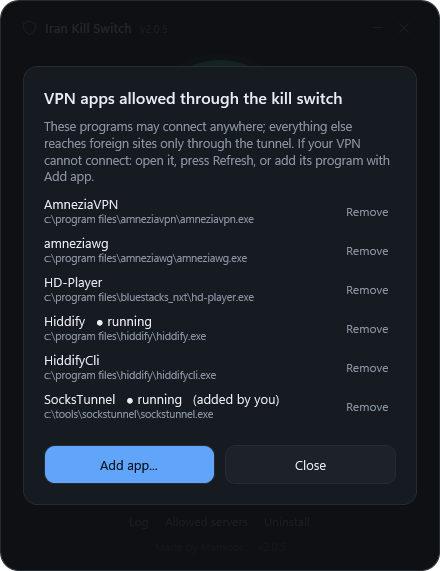
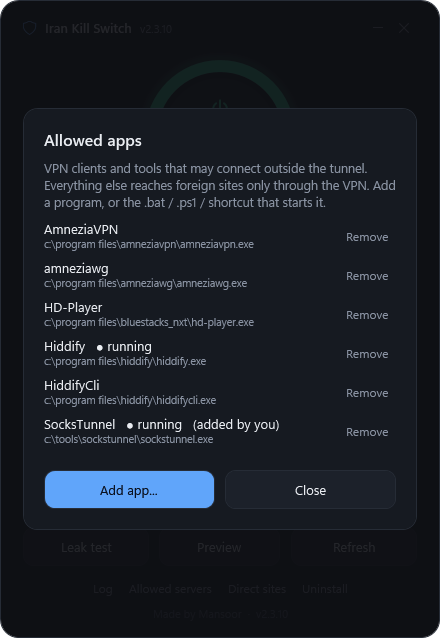
Docs, changelog, CI and repo hygiene for 2.3.10
- CHANGELOG.md (2.3.10 in Added / Changed / Fixed / Security form).
- README (en/fa), docs/usage.md, AGENTS.md updated for ping cards,
  allowed apps (scripts, private PowerShell launcher), auto-keep, evidence-
  based VPN name, UDP through tunnels; screenshots re-rendered.
- GitHub Actions: offline test suite + installer build on windows-latest,
  installer uploaded as an artifact; Tests badge in the README.
- Removed a personal chat shortcut (.url) from the repo; .gitignore now
  covers *.url, *.lnk and local upgrade notes.

diff --git a/AGENTS.md b/AGENTS.md
@@ -7,7 +7,7 @@ Read this file only; open a module when the task needs it. User docs: README.md,
 ## Mechanism (one screen)
 - **Filters**: native WFP (`app/native/IksNative.cs`), own provider+sublayer (fixed GUIDs, weight 0xFFFE), persistent, ONE transaction.
   Layers ALE_AUTH_CONNECT + ALE_AUTH_RECV_ACCEPT, v4+v6. Weights: w15 loopback | w14 each VPN app (ALE_APP_ID) |
-  w13 tunnel if-types 53/23/131 + learned TAP IPs | w12 remote ranges: Iran + LAN/special + allowed servers + direct sites | w1 block.
+  w13 tunnel if-types 53/23/131 + learned local IPs of EVERY tunnel adapter (unconnected UDP is classified before the interface is known) | w12 remote ranges: Iran + LAN/special + allowed servers + direct sites | w1 block.
   Our block beats every Windows Firewall allow rule. Windows Firewall is never touched.
 - **Routes** (TUN VPNs): IP Helper adds Iran CIDRs (~1750) + direct-site CIDRs via the physical gateway, active store only.
 - **Direct sites** (`state\direct-sites.txt`, domain/IP/CIDR/URL): resolved (parallel, 4 s, cache 7 days in `DirectCache`) -> w12 + routes,
@@ -15,8 +15,15 @@ Read this file only; open a module when the task needs it. User docs: README.md,
   HKCU `ProxyOverride` (ours remembered in `HKCU:\Software\IranKillSwitch\ProxyBypass`); re-applied on ON/OFF, Refresh, list save, hourly.
   Per-app bypass in TUN mode is impossible without a kernel callout driver.
 - **Guard**: task `IKS-Guard` (SYSTEM; boot, 5 min, network event) -> `Invoke-IKSSync`: list (7 days), apps, servers, direct sites, filters, routes.
-- **Safety**: Enable arms `IKS-AutoRevert` (+120 s) BEFORE filters; re-armed after the GUI checks (`Reset-IKSRevertTimer`); user confirms -> cancelled.
-- **VPN modes** (Get-IKSStatus.VpnMode): `tun` (adapter up) | `proxy` (local proxy listening; `SystemProxy` = Windows proxy set) | none.
+- **Safety**: Enable arms `IKS-AutoRevert` (+120 s) BEFORE filters. GUI self-test passes + Iran reachable (`Test-IKSAutoKeep`) -> `Confirm-IKSKeep -Auto`;
+  otherwise re-armed (`Reset-IKSRevertTimer`) and the user confirms or it is undone.
+- **VPN modes** (Get-IKSStatus.VpnMode): `tun` (adapter up) | `proxy` (local proxy listening; Windows proxy port wins; `SystemProxy` = Windows proxy set) | none.
+  `VpnClient` = evidence only (`Get-IKSActiveVpnClient`: TCP to foreign over the real NIC / proxy port owner -> top non-Windows ancestor), else ''.
+- **Allowed apps**: auto | user | child (child = started by an allowed app, kept only while running). Never under %SystemRoot% (dropped if saved).
+  `Add-IKSVpnApp` takes .exe/.bat/.cmd/.ps1/.lnk: `Get-IKSScriptPrograms` follows launchers to the .exe they start; pure-PowerShell tools ->
+  `New-IKSScriptLauncher` = private powershell.exe copy in `state\launchers` + desktop shortcut.
+- **Ping** (GUI, 3 s while visible): `Get-IKSLatency` = warm round trip inside the tunnel (CONNECT via proxy, or TCP via TUN; second HEAD on
+  an open connection, because sing-tun/sing-box fake the handshake/CONNECT) + TCP handshake to an Iranian site.
   Hiddify "Proxy" mode with Windows proxy OFF -> browsers go direct -> blocked (test 9 explains it).
 
 ## Files
@@ -35,10 +42,10 @@ app/modules/Config       $script:IKS (catalog, VendorRegex, weights, URLs, paths
            Protect       Set/Remove-IKSFilters, Get-IKSRouteCidrs (pure), Sync/Remove-IKSIranRoutes, Remove-IKSLegacy (v1)
            Tasks         IKS-Guard, IKS-AutoRevert
            Actions       Enable/Disable/Confirm-IKSKeep, Reset-IKSRevertTimer, Invoke-IKSSync, Get-IKSStatus, Get-IKSUpdateInfo (GitHub), app add/remove
-           Diagnostics   Resolve-IKSIPv4Many, Invoke-IKSTest (sockets bound to the real NIC = "VPN down" simulation)
+           Diagnostics   Resolve-IKSIPv4Many, Invoke-IKSTest (sockets bound to the real NIC = "VPN down" simulation), STUN parser, Get-IKSLatency
            Setup         requirements, install/update (keeps state\), uninstall (+ delayed folder removal)
 installer/SetupApp.cs    setup exe (WinForms); Build-Setup.ps1 = tests -> payload.zip -> dist\IranKillSwitch-Setup-<ver>.exe (+ optional signing)
-tests/Run-Tests.ps1      offline suite (~88 checks); -WfpLive = real filters in a DYNAMIC session (admin, protection OFF)
+tests/Run-Tests.ps1      offline suite (~120 checks); -WfpLive = real filters in a DYNAMIC session (admin, protection OFF)
 ```
 Installed: `C:\Program Files\IranKillSwitch`; `state\` = settings.json, iks.log, routes.txt, allowed-servers.txt, direct-sites.txt.
 
@@ -57,7 +64,8 @@ Installed: `C:\Program Files\IranKillSwitch`; `state\` = settings.json, iks.log,
 - Functions return lists with `return , $list`. Never wrap the call in `@(...)` or `[string[]]@(...)`: it becomes ONE item
   (this broke routes in 2.2.0 and proxy bypass in 2.3.0). Use the result directly or `.ToArray()`.
 - Every state change via `Invoke-IKSLocked`; `Enabled=false` saved BEFORE removal; revert task armed BEFORE filters.
-- Never auto-allow anything under %SystemRoot%; never whitelist the real NIC address as a tunnel.
+- Never allow anything under %SystemRoot%, not even on user request (every script would bypass); never whitelist the real NIC address as a tunnel.
+- Status shows only what is proven (VPN name, ping): no evidence -> no value, never a guess.
 - Read-only actions (Preview/Status/Test) never save settings or touch WFP. Not admin -> filter count/tasks "unknown", not "missing".
 - GUI work that can block -> Start-Job2 (runspace, dot-sources IKS.ps1). UI thread only for cheap calls (<10 ms).
 - The ring (RingBtn) is the only on/off control. Glow ellipse has its own 180 px box (never negative margins: WPF clips).
@@ -66,7 +74,7 @@ Installed: `C:\Program Files\IranKillSwitch`; `state\` = settings.json, iks.log,
 ```
 powershell -ExecutionPolicy Bypass -File tests\Run-Tests.ps1 [-WfpLive]     # after every change
 powershell -ExecutionPolicy Bypass -File Build-Setup.ps1                     # [-CertThumbprint x | -CertPfx f]
-$env:IKS_GUI_SELFTEST='x.png'; powershell -File app\IKS.Gui.ps1              # render GUI to PNG, no admin (VIEW=main|apps|tests)
+$env:IKS_GUI_SELFTEST='x.png'; powershell -File app\IKS.Gui.ps1              # render GUI to PNG, no admin (VIEW=main|apps|tests; IKS_GUI_SELFTEST_PING=1 = real ping)
 ```
 Release: GitHub saateon/iran-kill-switch, tag `v<VERSION>`, asset `IranKillSwitch-Setup-<VERSION>.exe` (the app's update check reads it).
 

diff --git a/README.md b/README.md
@@ -10,6 +10,7 @@ If the VPN drops, foreign traffic is blocked, never leaked.
 
 [![Download](https://img.shields.io/github/v/release/saateon/iran-kill-switch?label=Download&style=for-the-badge&color=34D399)](https://github.com/saateon/iran-kill-switch/releases/latest)
 
+[![Tests](https://github.com/saateon/iran-kill-switch/actions/workflows/tests.yml/badge.svg)](https://github.com/saateon/iran-kill-switch/actions/workflows/tests.yml)
 ![Windows 10/11](https://img.shields.io/badge/Windows-10%20%7C%2011-0078D6?logo=windows)
 ![PowerShell 5.1](https://img.shields.io/badge/PowerShell-5.1-5391FE?logo=powershell&logoColor=white)
 ![C#](https://img.shields.io/badge/C%23-.NET%20Framework-512BD4?logo=dotnet)
@@ -33,25 +34,29 @@ Iranian sites fast and direct.
 
 - **Works with any VPN, without touching its settings**: Hiddify, v2rayN, Clash, sing-box,
   AmneziaVPN, AmneziaWG, WireGuard, OpenVPN, SSH tunnels (MobaXterm), BlueStacks and more.
-  VPN programs are detected automatically; helpers they start are allowed too.
+  VPN programs are detected automatically; helpers they start are allowed while they run.
+  Tools started by a `.bat`, `.cmd`, `.ps1` or shortcut can be added too: the programs they start are allowed,
+  and a pure-PowerShell tool gets its own private PowerShell copy. Windows' own programs are never allowed.
 - **Real kill switch**: native Windows Filtering Platform filters, active from boot,
   before any VPN starts. Block rules win over every Windows Firewall allow rule.
 - **Iran direct**: about 1,600 Iranian IPv4 ranges (RIPE NCC + ipdeny, auto-updated) stay
   outside the VPN. For TUN-mode VPNs the tool adds direct routes, so no VPN config is needed.
 - **Direct sites**: your own list of foreign sites (domain, IP, CIDR or URL) that skip the VPN.
   Works in TUN mode (routes) and in System Proxy mode (Windows "no proxy" list, re-applied if the VPN app removes it).
-- **No leaks**: DNS, WebRTC (STUN) and IPv6 are covered. Built-in leak test.
-- **Safe by design**: every change is applied in one transaction; turning on auto-undoes
-  itself in 2 minutes unless you confirm; Emergency OFF and full uninstall restore everything.
+- **No leaks**: DNS, WebRTC (STUN) and IPv6 are covered, also through wintun / sing-tun tunnels. Built-in leak test.
+- **Live ping**: two cards show the round trip inside the VPN tunnel and straight to Iran, measured the way VPN clients do.
+- **Honest status**: the VPN row names the client that really carries the traffic (found from its connections), or no name at all.
+- **Safe by design**: every change is applied in one transaction; after turning on, a self-test runs and
+  protection is kept only if it passes (otherwise you are asked, and it undoes itself in 2 minutes); Emergency OFF and full uninstall restore everything.
   Windows Firewall settings are never changed.
 - **Self-managing**: a background guard repairs filters, refreshes the Iran list and finds
   new VPN programs.
 - **Update check**: the footer shows when a newer release is on GitHub.
-- **Zero dependencies**: only what ships with Windows 10/11. One 80 KB installer.
+- **Zero dependencies**: only what ships with Windows 10/11. One ~90 KB installer.
 
 ## Screenshots
 
-| Main window | VPN apps | Leak test |
+| Main window | Allowed apps | Leak test |
 |:---:|:---:|:---:|
 | <img src="docs/images/main.png" width="260"> | <img src="docs/images/apps.png" width="260"> | <img src="docs/images/tests.png" width="260"> |
 
@@ -71,11 +76,11 @@ the Windows admin prompt. Run a newer setup to update; your settings are kept.
 ## Quick start
 
 1. Open **Iran Kill Switch** from the desktop or Start menu.
-2. Click the **big ring** to turn protection on. A short leak test runs.
-3. Press **Keep protection**. (Without it, everything is undone after 2 minutes.)
+2. Click the **big ring** to turn protection on. A short self-test runs.
+3. All checks pass: protection stays on. Something failed: you choose **Keep** or **Undo** (no answer = undone after 2 minutes).
 
 If your VPN cannot connect: open it, press **Refresh**, or add its program under
-**VPN apps -> Manage -> Add app**.
+**Allowed apps -> Manage -> Add app** (an `.exe`, or the `.bat` / `.ps1` / shortcut that starts it).
 
 ## Documentation
 
@@ -86,6 +91,7 @@ If your VPN cannot connect: open it, press **Refresh**, or add its program under
 | [How it works](docs/how-it-works.md) | WFP filter model, routes, guard, safety net |
 | [Build from source](docs/build.md) | project layout, tests, versioning, making the installer |
 | [FAQ and limits](docs/faq.md) | what is covered, what is not |
+| [Changelog](CHANGELOG.md) | what changed in each version |
 | [Agent brief](AGENTS.md) | compact technical summary for AI coding assistants |
 
 ## License

diff --git a/README.fa.md b/README.fa.md
@@ -16,14 +16,16 @@
 ## استفاده
 1. برنامه را از دسکتاپ یا منوی Start باز کنید.
 2. روی **حلقهی بزرگ** کلیک کنید (روشن/خاموش با همین حلقه است؛ با کیبورد: Tab و Enter).
-3. برنامه خودش تست میگیرد. اگر همهچیز درست بود، **Keep protection** را بزنید.
-   اگر ظرف ۲ دقیقه تأیید نکنید، همهچیز **خودکار برمیگردد**.
+3. برنامه خودش تست میگیرد. اگر همهٔ تستها پاس شوند، محافظت **خودکار روشن میماند**.
+   اگر تستی رد شود، میپرسد: **Keep protection** یا **Undo now**. اگر ظرف ۲ دقیقه جواب ندهید، همهچیز **خودکار برمیگردد**.
+- **پینگ:** دو کارت زیر حلقه: **VPN PING** (رفتوبرگشت داخل تونل VPN، همان عددی که کلاینت VPN نشان میدهد) و **DIRECT PING** (مستقیم تا یک سایت ایرانی). سبز زیر ۳۰۰، زرد زیر ۱۰۰۰ میلیثانیه، قرمز کندتر یا بدون جواب.
+- **ردیف VPN:** اسم کلاینتی که واقعاً ترافیک را میبرد (از روی اتصالهایش)، مثل `v2rayN · TUN`. اگر قابل اثبات نباشد، اسمی نشان داده نمیشود.
 - **حلقهی بزرگ** فقط وضعیت را نشان میدهد: سبز یعنی محافظت روشن، خاکستری یعنی خاموش.
 - **دکمهی X** برنامه را به کنار ساعت (System Tray) میبرد. محافظت حتی با بستن برنامه هم کار میکند.
 
 | بخش | کار |
 |---|---|
-| **VPN apps ← Manage** | دیدن، اضافه کردن (**Add app**) یا حذف برنامههای VPN |
+| **Allowed apps ← Manage** | دیدن، اضافه کردن (**Add app**) یا حذف برنامههایی که بیرون از تونل مجازند. میتوانید `exe`، یا `bat` / `cmd` / `ps1` / میانبری که آن را اجرا میکند انتخاب کنید |
 | **Iran direct (TUN)** | برای VPNهای حالت TUN: سایتهای ایرانی از اینترنت معمولی بروند |
 | **Leak test** | تست نشتی: ترافیک خارجی بدون VPN، DNS، WebRTC، IPv6 و سایتهای ایرانی |
 | **Preview** | نشان میدهد روشن کردن چه کاری میکند، بدون اعمال هیچ تغییری |
@@ -33,9 +35,12 @@
 
 **اگر VPN شما وصل نشد:**
 1. VPN را باز کنید و در برنامه **Refresh** بزنید.
-2. اگر باز هم وصل نشد: **Manage ← Add app** و فایل exe آن VPN را انتخاب کنید.
+2. اگر باز هم وصل نشد: **Manage ← Add app** و فایل exe آن VPN، یا فایل bat/ps1 که آن را اجرا میکند، را انتخاب کنید.
 
-برنامههایی که یک VPN مجاز خودش اجرا کند (مثل `MobaRTE.exe` در MobaXterm) خودکار مجاز میشوند.
+- برنامههایی که یک برنامهٔ مجاز خودش اجرا کند (مثل `MobaRTE.exe` در MobaXterm) خودکار و فقط تا وقتی اجرا هستند مجاز میشوند.
+- برای فایل bat/ps1، برنامههایی که اجرا میکند مجاز میشوند (`xray_no_window.cmd` ← `xray.exe`). ابزاری که فقط با PowerShell نوشته شده یک نسخهٔ اختصاصی PowerShell و میانبر *Name (Kill Switch)* روی دسکتاپ میگیرد؛ از همان میانبر اجرایش کنید.
+- برنامههای خود ویندوز (PowerShell، cmd، curl) هیچوقت مجاز نمیشوند، چون همهٔ اسکریپتها را آزاد میکنند.
+- **WebRTC آیپی نشان نمیدهد؟** حالت Proxy هرگز WebRTC (UDP) را عبور نمیدهد؛ VPN را روی حالت TUN / VPN بگذارید. در حالت TUN سرور VPN هم باید UDP را عبور دهد.
 
 ## شرایط
 - ویندوز ۱۰ (نسخهی 1607 به بعد) یا ۱۱؛ Home یا Pro؛ ۳۲ یا ۶۴ بیتی.

diff --git a/docs/usage.md b/docs/usage.md
@@ -16,30 +16,44 @@ The big ring is the on/off switch and the status at the same time.
 
 Keyboard: `Tab` to the ring, then `Enter` or `Space`.
 
-**Turning on** runs a leak test and asks *Is everything working?*. Press
-**Keep protection**. If you do nothing, everything is undone after 2 minutes, so a
+**Turning on** runs a self-test. If every check passes and an Iranian site is reachable,
+protection simply stays on. If a check fails you are asked *Is everything working?*:
+**Keep protection** or **Undo now**. If you do nothing, everything is undone after 2 minutes, so a
 mistake can never leave you without internet.
+
+## Ping
+
+| Card | |
+|---|---|
+| VPN PING | round trip inside the VPN tunnel to a foreign server, on an open connection (what your VPN client shows) |
+| DIRECT PING | round trip straight to an Iranian site through your normal internet |
+
+Green below 300 ms, amber below 1000 ms, red slower or no answer. Refreshed every 3 seconds while the window is open.
 
 ## Rows
 
 | Row | |
 |---|---|
-| VPN | which VPN program is running and in which mode (TUN or proxy) |
-| VPN apps | how many VPN programs may connect; **Manage** opens the list |
+| VPN | the client that really carries the traffic (found from its connections) and the mode, e.g. `v2rayN · TUN`; no name when it cannot be proven |
+| Allowed apps | how many programs may connect outside the tunnel; **Manage** opens the list |
 | Iran direct (TUN) | switch; for TUN-mode VPNs, Iranian sites skip the tunnel; shows `+ N direct sites` |
 | Iran IP list | ranges and date; refreshed weekly |
 | Background guard | last automatic check |
 
-## VPN apps
+## Allowed apps
 
-<img src="images/apps.png" width="300" align="right" alt="VPN apps">
+<img src="images/apps.png" width="300" align="right" alt="Allowed apps">
 
 Only these programs may reach foreign addresses directly; everything else must go
 through a tunnel. They are found automatically (running programs, services and the usual
 install folders). Programs that an allowed app starts itself, for example MobaXterm's
-`MobaRTE.exe`, are allowed within 15 seconds. Windows' own programs never are.
+`MobaRTE.exe`, are allowed within 15 seconds, and only while they run. Windows' own programs
+(PowerShell, cmd, curl...) never are: allowing one would let every script bypass the kill switch.
 
-- **Add app...** choose the VPN program's `.exe`
+- **Add app...** choose a program (`.exe`), or the `.bat` / `.cmd` / `.ps1` / shortcut that starts it.
+  The programs it starts are allowed (`xray_no_window.cmd` -> `xray.exe`). A tool written in PowerShell
+  with no program of its own gets a private PowerShell copy and a desktop shortcut *Name (Kill Switch)*:
+  start it from that shortcut.
 - **Remove** takes a program off the list; it is not re-added by later scans
 
 ## Buttons
@@ -69,6 +83,7 @@ traffic leaves when a VPN dies. So it proves the kill switch without closing you
 | Problem | Fix |
 |---|---|
 | VPN cannot connect while protection is on | open the VPN, press **Refresh**; still not: **Manage -> Add app** |
+| WebRTC test shows no IP | proxy mode never carries WebRTC (UDP): switch the VPN app to TUN / VPN mode. In TUN mode the VPN server must carry UDP too |
 | SOCKS5 in a browser extension does not work | add the proxy server under **Allowed servers** |
 | A direct site still shows the VPN IP | TUN mode: turn off FakeIP in the VPN app. System Proxy mode: keep the app running (it writes the Windows "no proxy" list) and press **Refresh**. The page may load parts from other domains: add them too |
 | Iranian sites go through the VPN | use the VPN in TUN mode and keep **Iran direct** on; VPNs with their own kill switch ("block untunneled traffic") must have it turned off |

diff --git a/CHANGELOG.md b/CHANGELOG.md
@@ -1,0 +1,47 @@
+# Changelog
+
+All notable changes. Versions follow `app/VERSION`; each release ships `IranKillSwitch-Setup-<version>.exe`.
+
+## 2.3.10 - 2026-11-17
+
+### Added
+- **Live ping cards** under the headline: *VPN PING* (round trip inside the tunnel) and *DIRECT PING*
+  (straight to an Iranian site), with a level dot (green < 300 ms, amber < 1000 ms, red slower / no answer).
+  Measured like VPN clients do: the tunnel connection is opened first, then one request on it is timed.
+- **Scripts and shortcuts as allowed apps**: `.bat`, `.cmd`, `.ps1` and `.lnk` are accepted. The programs
+  they start are allowed (nested scripts, `%~dp0`, `$PSScriptRoot`, relative paths), e.g.
+  `xray_no_window.cmd -> xray_no_window.ps1 -> xray.exe`.
+- **Pure-PowerShell tools** (no `.exe` of their own) get a private `powershell.exe` copy in
+  `state\launchers` and a desktop shortcut *Name (Kill Switch)*; only that copy is allowed.
+- Leak test row **WebRTC shows the VPN IP**: explains `n/a` in proxy mode (UDP cannot use a proxy) and,
+  in TUN mode, sends a real STUN request through the tunnel and fails if the address seen is Iranian.
+
+### Changed
+- **After Turn ON, protection is kept automatically** when every check passes and an Iranian site is
+  reachable. The question with the auto-undo countdown appears only when a check fails.
+- **VPN row names the client that really carries the traffic**, found from evidence (TCP connections to
+  a foreign server over the real adapter, or the owner of the proxy port), shown as its app
+  (`xray -> v2rayN`). No proof, no name.
+- The Windows proxy setting wins when several VPN clients listen on local proxy ports at once.
+- "VPN apps" is now **Allowed apps** (not every allowed program is a VPN).
+- The power icon in the ring is a drawn path, exactly centred.
+
+### Fixed
+- **UDP inside wintun / sing-tun tunnels was blocked** (DNS, WebRTC/STUN) while protection was on:
+  unconnected UDP sockets are classified before the interface is known. The local addresses of every
+  tunnel adapter are now permitted, not only TAP. The real adapter's address is never exempted.
+- TUN-mode ping showed a fake ~10 ms (sing-tun answers the TCP handshake locally).
+- Proxy-mode ping showed a fake value (sing-box answers `CONNECT` before dialling).
+- `Get-IKSStatus` threw without admin rights on unreadable paths.
+
+### Security
+- **Windows' own programs can no longer be allowed** (PowerShell, cmd, curl...): allowing one let every
+  script on the PC bypass the kill switch with the real IP. Entries saved by older versions are dropped.
+- Helper programs started by an allowed app stay allowed **only while they run** (a one-off tool started
+  once was allowed forever).
+
+## 2.3.1 - 2026-11-14
+Direct sites, proxy-mode support, fixes. See the [release](https://github.com/saateon/iran-kill-switch/releases/tag/v2.3.1).
+
+## 2.0.5 - 2026-11-12
+First public version of the v2 engine (native WFP). See the [release](https://github.com/saateon/iran-kill-switch/releases/tag/v2.0.5).
